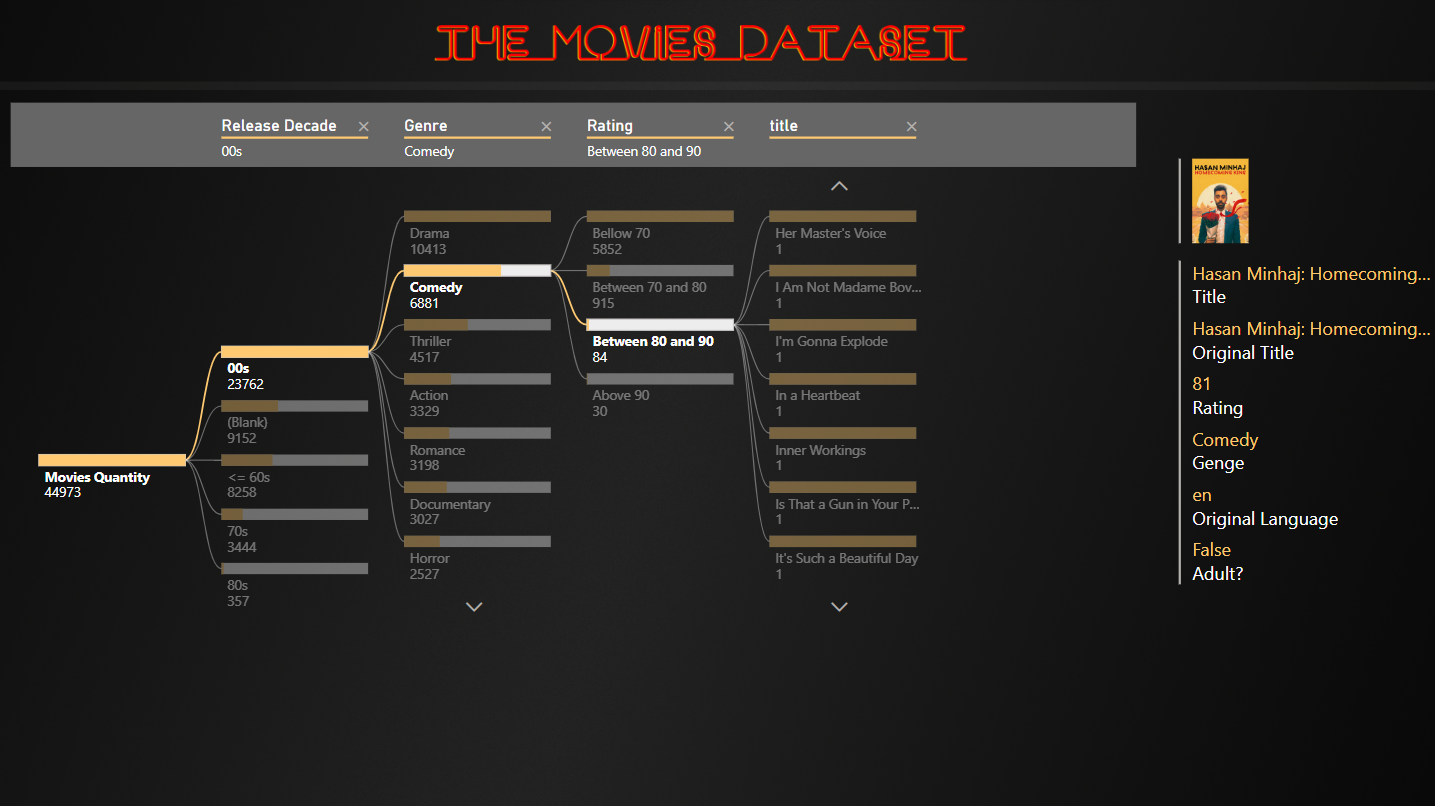
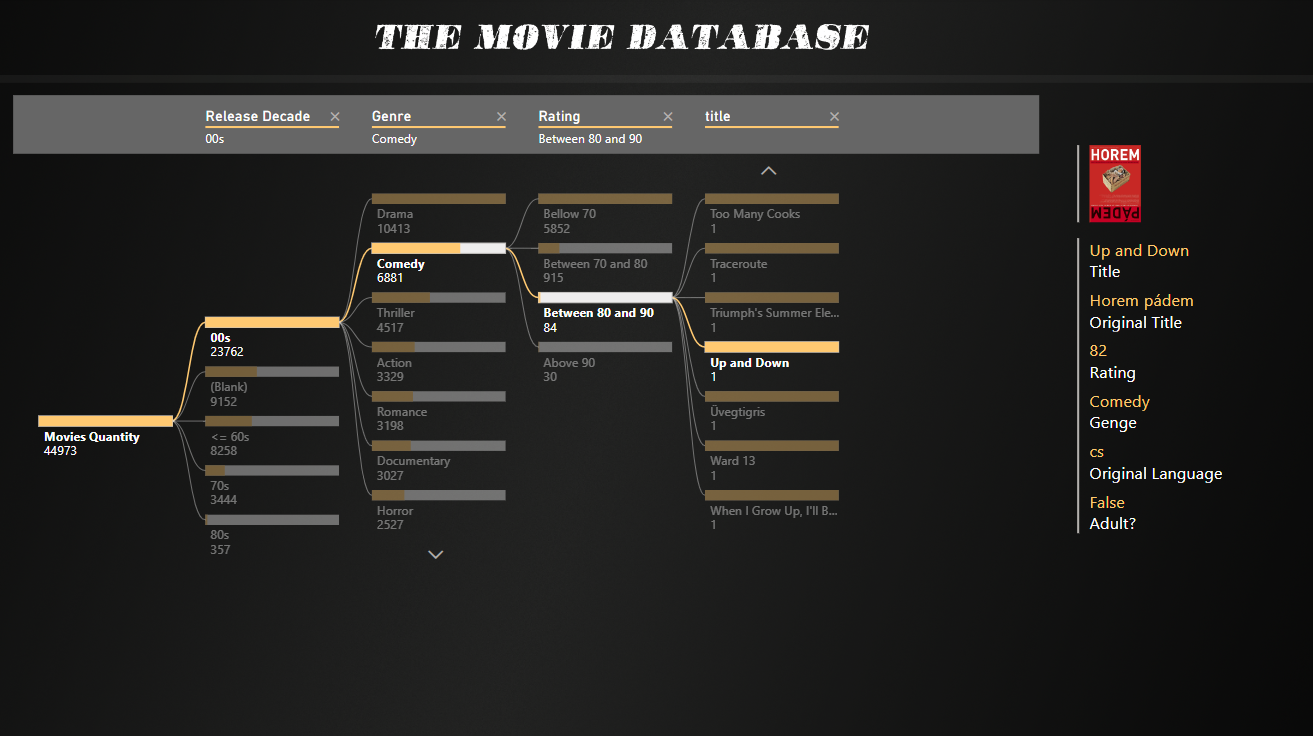
PB update image and text

diff --git a/index.html b/index.html
@@ -153,7 +153,7 @@
 
             <div class="mySlides2">
               <img src="./images/pb_2.png" class="work__image2" alt="Project 2" />
-              <div class="text">Caption Two</div>
+              <div class="text">Tree View</div>
             </div>
 
             <!-- Next and previous buttons -->
